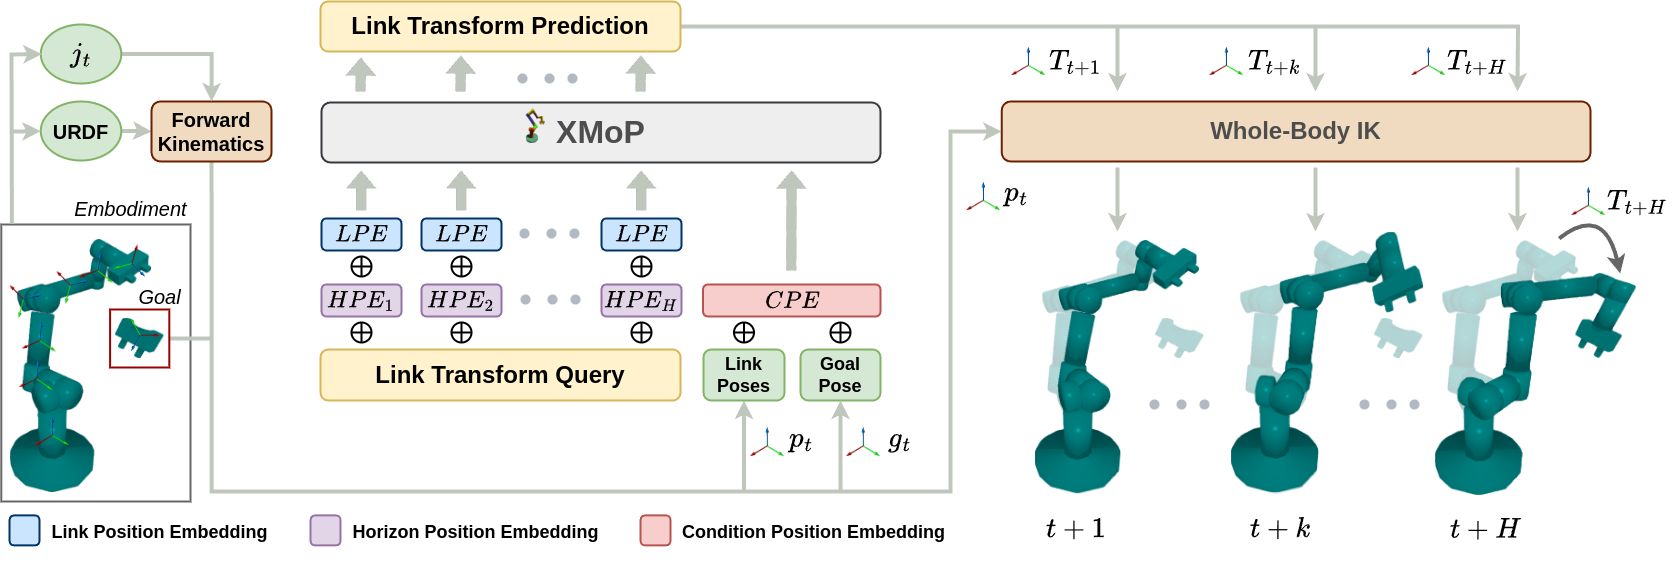
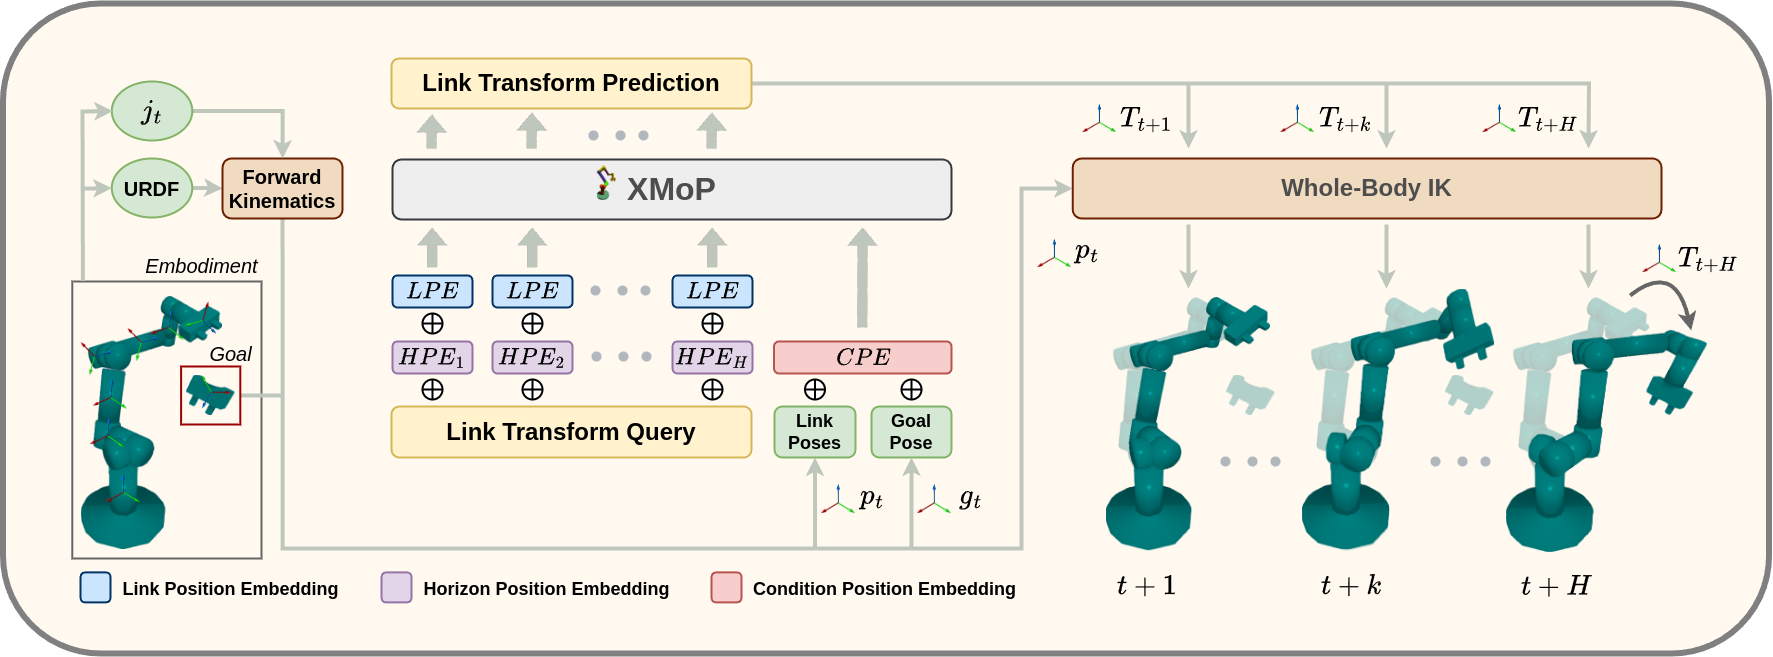
style updates

diff --git a/index.html b/index.html
@@ -281,10 +281,7 @@
     <div class="container">
       <div class="columns is-centered">
         <div class="column is-full-width">
-          <h2 class="title is-4" style="text-align: center; padding-bottom: 10px"><strong>Cross-Embodiment Configuration-Space Control Method</strong></h2> 
-          <div class="columns is-centered has-text-centered">
-          <div class="column is-two-thirds ">
-          <div class="content has-text-justified">
+          <h2 class="title is-4" style="text-align: center; padding-bottom: 10px; background-color: #f4f4f4; border-radius: 15px; padding: 10px;"><strong>Cross-Embodiment Configuration-Space Control Method</strong></h2> 
           </div>
         </div>
       </div>
@@ -292,25 +289,20 @@
             <div class="column is-full-width" style="text-align: center;">
               <img src="resources/approach.png" alt="Image description" width="80%">
             </div>
-            </div>
-            <br>
+          </div>
         </div>
       </div>
 
       <div class="container">
         <div class="columns is-centered">
           <div class="column is-full-width">
-            <h2 class="title is-4" style="text-align: center; padding-bottom: 10px"><strong>Cross-Embodiment Collision Detection Method</strong></h2> 
-            <div class="columns is-centered has-text-centered">
-              <div class="column is-two-thirds ">
-              <div class="content has-text-justified">
+            <h2 class="title is-4" style="text-align: center; padding-bottom: 10px; background-color: #f4f4f4; border-radius: 15px; padding: 10px;"><strong>Cross-Embodiment Collision Detection Method</strong></h2> 
             </div>
           </div>
         </div>
             <div class="columns is-centered">
               <div class="column is-full-width" style="text-align: center;">
                 <img src="resources/policy_arch.png" alt="Image description" width="80%">
-                <br>
                 <br>
                 <br>
                 <br>
@@ -321,7 +313,6 @@
                   </div>
                 </div>
               </div>
-              <br>
           </div>
         </div>
          
@@ -331,7 +322,7 @@
     <div class="container">
       <div class="columns is-centered">
         <div class="column is-full-width">
-          <h2 class="title is-4" style="text-align: center; color: brown;"><strong>All rollouts shown in the videos (both simulated and real) use XMoP with a fixed set of frozen policy parameters</strong></h2>
+          <h2 class="title is-4" style="text-align: center; color: brown; background-color: lightblue; border-radius: 15px; padding: 10px;"><strong>All rollouts shown in the videos (both simulated and real) use XMoP with a fixed set of frozen policy parameters</strong></h2>
         </div> 
       </div>
     </div>
@@ -341,8 +332,9 @@
     <div class="container">
         <div class="columns is-centered">
           <div class="column is-full-width">
-                <h3 class="title is-4" style="text-align: center; padding-bottom: 10px;"><strong>Zero-shot Sim-to-Real Rollout on Franka FR3 and Sawyer Robots <br><br> Planning goal and policy observation are shown at the top-right corner</strong></h3>
-                
+            <h3 class="title is-4" style="text-align: center; padding-bottom: 10px; background-color: #f4f4f4; border-radius: 15px; padding: 10px;">
+              <strong>Zero-shot Sim-to-Real Rollout on Franka FR3 and Sawyer Robots <br><br> Planning goal and policy observation are shown at the top-right corner</strong>
+            </h3> 
                 <div class="columns">
                     <div class="column">
                         <video class="center" autoplay playsinline loop controls muted src="resources/extras/franka_22_merged.mp4" width="100%" style="border-radius:10px;"></video>
@@ -386,7 +378,7 @@
   <div class="container">
       <div class="columns is-centered">
         <div class="column is-full-width">
-              <h3 class="title is-4" style="text-align: center; padding-bottom: 10px;"><strong>Closed-loop Rollout in Dynamic Environments</strong></h3>
+              <h3 class="title is-4" style="text-align: center; padding-bottom: 10px; background-color: #f4f4f4; border-radius: 15px; padding: 10px;"><strong>Closed-loop Rollout in Dynamic Environments</strong></h3>
               
               <div class="columns">
                   <div class="column">
@@ -415,10 +407,9 @@
   <div class="container">
       <div class="columns is-centered">
         <div class="column is-full-width">
-              <h3 class="title is-4" style="text-align: center; padding-bottom: 10px;"><strong>XMoP-S, an ablated policy that uses vanilla Transformer model for zero-shot cross-embodiment 6-DoF reaching</strong></h3>
+              <h3 class="title is-4" style="text-align: center; padding-bottom: 10px; background-color: #f4f4f4; border-radius: 15px; padding: 10px;"><strong>XMoP-S, an ablated policy that uses vanilla Transformer model for zero-shot cross-embodiment 6-DoF reaching</strong></h3>
               <div class="column" style="display: flex; justify-content: center;">
                 <video class="center" autoplay playsinline loop controls muted src="resources/xmop_s_rollouts.mp4" width="80%" style="border-radius:10px;"></video>
-                <!-- <p style="text-align: center; font-size: 18px">xyz</p> -->
               </div>
           </div>
       </div>
@@ -429,10 +420,11 @@
   <div class="container">
       <div class="columns is-centered">
         <div class="column is-full-width">
-              <h3 class="title is-4" style="text-align: center; padding-bottom: 10px; color: darkgreen;"><strong>Fully Synthetic Planning Demonstration Data</strong></h3>
-              <div class="column" style="display: flex; justify-content: center;">
-                <video class="center" playsinline loop controls muted src="resources/xmop_training_data_edited.mp4" width="80%" style="border-radius:10px;"></video>
-                <!-- <p style="text-align: center; font-size: 18px">xyz</p> -->
+          <h3 class="title is-4" style="text-align: center; padding-bottom: 10px; color: darkgreen; background-color: #d4edda; border-radius: 15px; padding: 10px;">
+            <strong>Fully Synthetic Planning Demonstration Data</strong>
+          </h3>
+          <div class="column" style="display: flex; justify-content: center;">
+              <video class="center" playsinline loop controls muted src="resources/xmop_training_data_edited.mp4" width="80%" style="border-radius:10px;"></video>
               </div>
           </div>
       </div>
@@ -443,7 +435,7 @@
   <div class="container">
       <div class="columns is-centered">
         <div class="column is-full-width">
-              <h3 class="title is-4" style="text-align: center; padding-bottom: 10px;"><strong>Failure Modes</strong></h3>
+              <h3 class="title is-4" style="text-align: center; padding-bottom: 10px; background-color: #f4f4f4; border-radius: 15px; padding: 10px;"><strong>Failure Modes</strong></h3>
               
               <div class="columns">
                   <div class="column">
